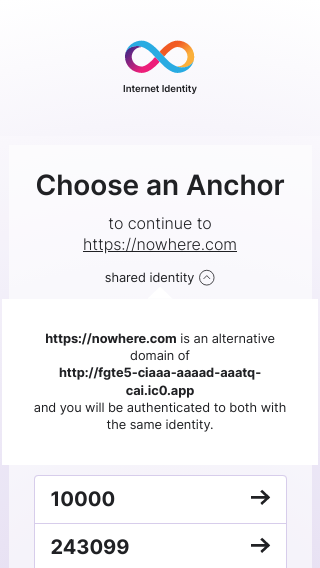
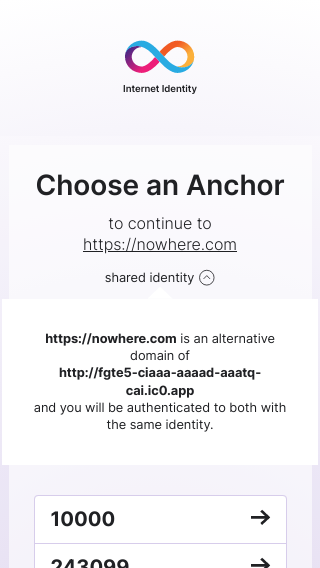
Simplify chasm implementation (#1541)
* Simplify chasm implementation

This simplifes the chasm in a few ways:

* The logic for toggling the chasm open/closed is rewritten using
  `Chan`s instead of raw lit `Ref`s
* The CSS is changed to use `grid` to avoid having to arbitrary set the
  `max-height`

* 🤖 Selenium screenshots auto-update

---------

Changed region(s): [[0.1562, 0.868, 0.4062, 1.0], [0.7812, 0.868, 0.8438, 1.0]]

diff --git a/src/frontend/src/flows/authorize/index.ts b/src/frontend/src/flows/authorize/index.ts
@@ -8,10 +8,10 @@ import { showMessage } from "$src/components/message";
 import { recoveryWizard } from "$src/flows/recovery/recoveryWizard";
 import { DynamicKey, I18n } from "$src/i18n";
 import { Connection } from "$src/utils/iiConnection";
-import { TemplateElement, withRef } from "$src/utils/lit-html";
-import { unreachable } from "$src/utils/utils";
+import { TemplateElement } from "$src/utils/lit-html";
+import { Chan, unreachable } from "$src/utils/utils";
 import { html, render, TemplateResult } from "lit-html";
-import { createRef, ref, Ref } from "lit-html/directives/ref.js";
+import { asyncReplace } from "lit-html/directives/async-replace.js";
 import { authenticationProtocol } from "./postMessageInterface";
 
 import copyJson from "./index.json";
@@ -166,39 +166,24 @@ type ChasmOpts = {
 };
 
 const mkChasm = ({ info, message }: ChasmOpts): TemplateResult => {
-  /* the chasm that opens to reveal details about alternative origin */
-  const chasmRef: Ref<HTMLDivElement> = createRef();
-
-  /* the (purely visual) arrow on the chasm */
-  const chasmToggleRef: Ref<HTMLSpanElement> = createRef();
-
   /* Toggle the chasm open/closed */
-  const chasmToggle = () =>
-    withRef(chasmRef, (chasm) => {
-      const expanded = chasm.getAttribute("aria-expanded") === "true";
-      if (!expanded) {
-        chasm.setAttribute("aria-expanded", "true");
-
-        withRef(chasmToggleRef, (arrow) =>
-          arrow.classList.add("c-chasm__button--flipped")
-        );
-      } else {
-        chasm.setAttribute("aria-expanded", "false");
-
-        withRef(chasmToggleRef, (arrow) =>
-          arrow.classList.remove("c-chasm__button--flipped")
-        );
-      }
-    });
+  const ariaExpanded = new Chan(false);
+  const chasmToggle = () => ariaExpanded.send(!ariaExpanded.latest);
+  const btnFlipped = ariaExpanded.map((expanded) =>
+    expanded ? "c-chasm__button--flipped" : undefined
+  );
 
   return html`
-    <p class="t-paragraph t-weak"><span id="alternative-origin-chasm-toggle" class="t-action" @click="${chasmToggle}" >${info} <span ${ref(
-    chasmToggleRef
-  )} class="t-link__icon c-chasm__button">${caretDownIcon}</span></span>
-      <div ${ref(chasmRef)} class="c-chasm" aria-expanded="false">
-        <div class="c-chasm__arrow"></div>
-        <div class="t-weak c-chasm__content">
-            ${message}
+    <p class="t-paragraph t-weak"><span id="alternative-origin-chasm-toggle" class="t-action" @click=${() =>
+      chasmToggle()}>${info} <span class="t-link__icon c-chasm__button ${asyncReplace(
+    btnFlipped
+  )}">${caretDownIcon}</span></span>
+      <div class="c-chasm" aria-expanded=${asyncReplace(ariaExpanded)}>
+        <div class="c-chasm__inner">
+          <div class="c-chasm__arrow"></div>
+          <div class="t-weak c-chasm__content">
+              ${message}
+          </div>
         </div>
       </div>
     </p>

diff --git a/src/frontend/src/styles/main.css b/src/frontend/src/styles/main.css
@@ -1814,18 +1814,18 @@ a:hover,
 .c-chasm {
   margin-left: calc(-1.25 * var(--rs-card-bezel));
   margin-right: calc(-1.25 * var(--rs-card-bezel));
-}
-
-.c-chasm[aria-expanded="false"] {
-  max-height: 0;
-  visibility: hidden;
-  transition: max-height 0.15s ease-out;
+  display: grid;
+  transition: grid-template-rows 150ms ease-out;
+  grid-template-rows: 0fr;
 }
 
 .c-chasm[aria-expanded="true"] {
-  max-height: calc(5em * var(--rs-line-height-body) + var(--rs-card-bezel) * 2);
-  visibility: visible;
-  transition: max-height 400ms cubic-bezier(0.3, 0.7, 0, 1);
+  grid-template-rows: 1fr;
+  transition: grid-template-rows 400ms cubic-bezier(0.3, 0.7, 0, 1);
+}
+
+.c-chasm__inner {
+  overflow: hidden;
 }
 
 .c-chasm__content {

diff --git a/src/frontend/src/utils/utils.ts b/src/frontend/src/utils/utils.ts
@@ -173,7 +173,7 @@ export class Chan<A> implements AsyncIterable<A> {
   // This is a bit of a hack, but much cleaner and way less error prone than deregistering listeners by hand.
   protected parent?: unknown;
 
-  private latest: A;
+  public latest: A;
 
   // Constructor with latest which is "initial" and then latest
   constructor(initial: A) {
